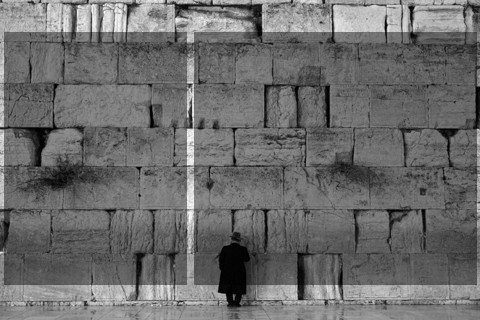
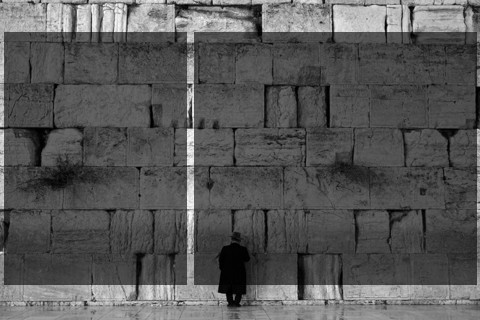
Darker boxes; more spacing; grey out passed times

diff --git a/include/shabbos_clock_helpers.h b/include/shabbos_clock_helpers.h
@@ -691,9 +691,11 @@ static void render_shabbos(
     const std::string &zmanim,
     const std::string &upcoming,
     const std::string &today_notes,
-    const std::string &shofar_status) {
+    const std::string &shofar_status,
+    int cur_hour, int cur_minute) {
 
   auto c_wht   = Color(255, 255, 255);
+  auto c_dim   = Color(130, 130, 130);
   auto c_div   = Color(50, 50, 40);
 
   if (!font_small || !font_mid || !font_icons) return;
@@ -733,23 +735,50 @@ static void render_shabbos(
   }
   // Candle lighting
   if (candles_time != "--:--") {
-    it.print(x, y, font_icons, c_wht, candles_icon.c_str());
-    it.print(x + 24, y, font_mid, c_wht, candles_time.c_str()); y += 18;
+    int ch = 0, cm = 0; char campm[4] = "";
+    if (sscanf(candles_time.c_str(), "%d:%d %3s", &ch, &cm, campm) >= 2) {
+      if (campm[0] == 'P' && ch != 12) ch += 12;
+      if (campm[0] == 'A' && ch == 12) ch = 0;
+    }
+    bool passed = (ch * 60 + cm) <= (cur_hour * 60 + cur_minute) && candles_time != "--:--";
+    auto col = passed ? c_dim : c_wht;
+    it.print(x, y, font_icons, col, candles_icon.c_str());
+    it.print(x + 24, y, font_mid, col, candles_time.c_str()); y += 18;
   }
   // Havdalah
   if (havdalah_time != "--:--") {
-    it.print(x, y, font_icons, c_wht, havdalah_icon.c_str());
-    it.print(x + 24, y, font_mid, c_wht, havdalah_time.c_str()); y += 18;
+    int hh = 0, hm = 0; char hampm[4] = "";
+    if (sscanf(havdalah_time.c_str(), "%d:%d %3s", &hh, &hm, hampm) >= 2) {
+      if (hampm[0] == 'P' && hh != 12) hh += 12;
+      if (hampm[0] == 'A' && hh == 12) hh = 0;
+    }
+    bool passed = (hh * 60 + hm) <= (cur_hour * 60 + cur_minute);
+    auto col = passed ? c_dim : c_wht;
+    it.print(x, y, font_icons, col, havdalah_icon.c_str());
+    it.print(x + 24, y, font_mid, col, havdalah_time.c_str()); y += 18;
   }
   // Zmanim (Mincha, Plag, Maariv)
   if (!zmanim.empty()) {
     std::string::size_type pos = 0;
     while (true) {
       auto nl = zmanim.find('\n', pos);
-      if (nl == zmanim.npos) {
-        it.print(x, y, font_small, c_wht, zmanim.substr(pos).c_str()); y += 13; break;
+      std::string line = (nl == zmanim.npos) ? zmanim.substr(pos) : zmanim.substr(pos, nl - pos);
+      // Determine if this time has passed
+      int zh = 0, zm = 0; char zampm[4] = "";
+      // parse "Label: H:MM AM/PM"
+      const char *ls = line.c_str();
+      const char *colon = strchr(ls, ':');
+      if (colon) {
+        // colon points at the separator colon; time follows ": "
+        if (sscanf(colon + 1, " %d:%d %3s", &zh, &zm, zampm) >= 2) {
+          if (zampm[0] == 'P' && zh != 12) zh += 12;
+          if (zampm[0] == 'A' && zh == 12) zh = 0;
+        }
       }
-      it.print(x, y, font_small, c_wht, zmanim.substr(pos, nl - pos).c_str()); y += 13;
+      bool zpassed = (zh * 60 + zm) <= (cur_hour * 60 + cur_minute) && zh >= 0 && zampm[0] != '\0';
+      auto zcol = zpassed ? c_dim : c_wht;
+      it.print(x, y, font_small, zcol, line.c_str()); y += 13;
+      if (nl == zmanim.npos) break;
       pos = nl + 1;
     }
   }
